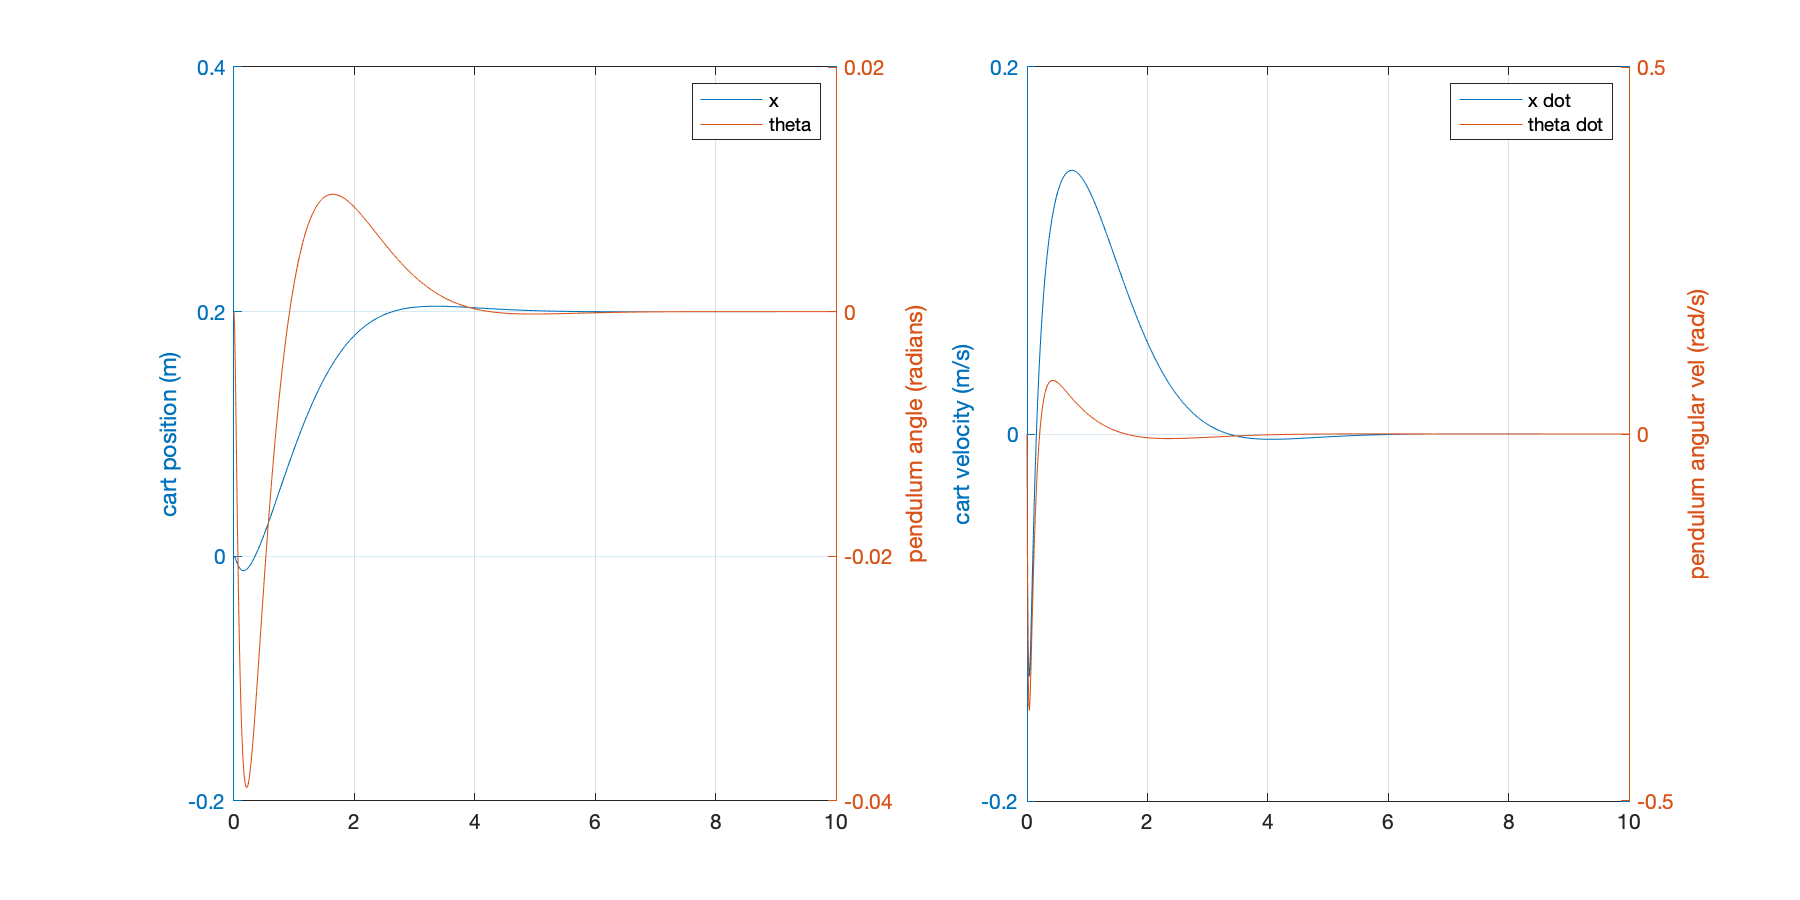
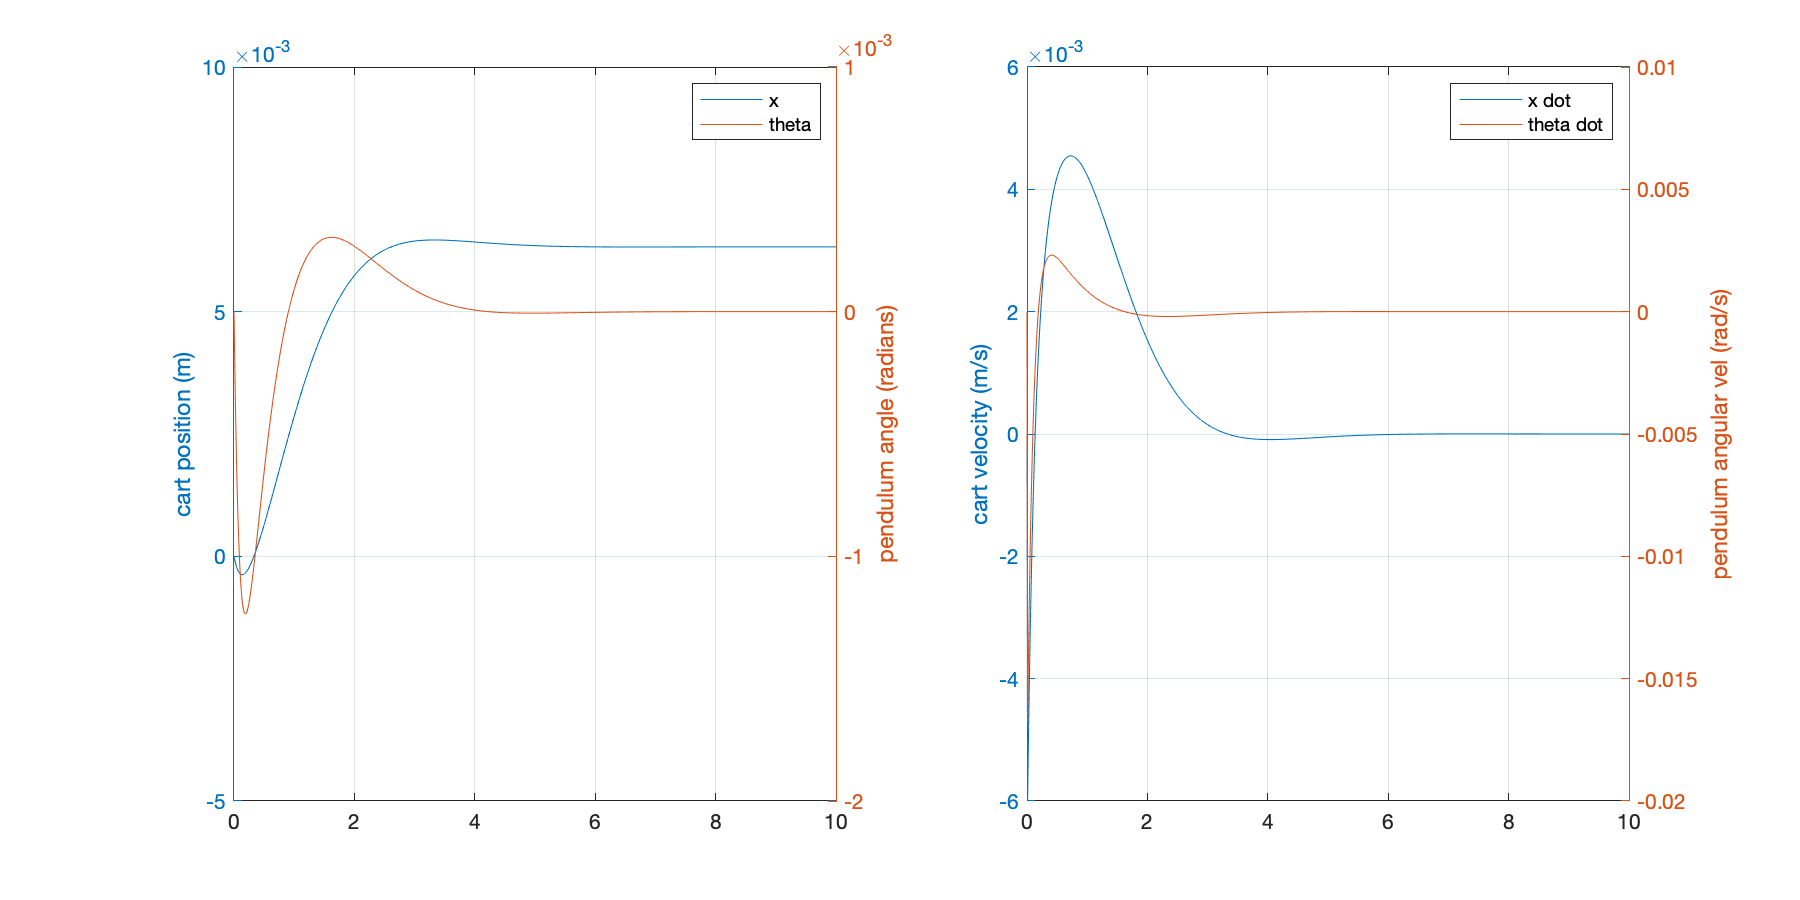
lqr ctrl, unstable

diff --git a/matlab/model.m b/matlab/model.m
@@ -7,7 +7,7 @@ global A B K L
 %% Constants
 M = .081;   %kg, cart mass
 m = 0.088;  %kg, total pend. mass
-b = 0.1;    %N/m/s, cart friction estimate
+b = 10;    %N/m/s, cart friction estimate
 g = 9.81;   %m/s^2
 l = 0.10;   %m, pend. length to CM.
 
@@ -57,11 +57,11 @@ observability = rank(ob); %rank of 4 = num states, thus observable.
 
 Q = C'*C;
 %Weights on error penalization for each state
-Q(1,1) = 100; %x
-Q(2,2) = 10; %x dot
-Q(3,3) = 1000; %theta
-Q(4,4) = 10; %theta dot
-R = 1;
+Q(1,1) = 10000; %x
+Q(2,2) = 1; %x dot
+Q(3,3) = 10000; %theta
+Q(4,4) = 0.1; %theta dot
+R = 0.1;
 
 [K,S,P_Sys] = lqr(A,B,Q,R);
 P_Sys
@@ -112,28 +112,28 @@ t = 0:0.01:10;
 r = -2*ones(size(t));
 
 
-f = figure('units','inch','position',[4,4,12,6]);
-subplot(1,2,1);
-[y,t,x]=lsim(sys_est_cl,r,t);
-[AX,H1,H2] = plotyy(t,y(:,1),t,y(:,2),'plot');
-set(get(AX(1),'Ylabel'),'String','cart position (m)')
-set(get(AX(2),'Ylabel'),'String','pendulum angle (radians)')
-%title('Step Response with Observer-Based State-Feedback Control')
-hold on
-grid on
-legend('x', 'theta');
-
-%plot dot states
-subplot(1,2,2)
-[AX2,H3,H4] = plotyy(t,x(:,2),t,x(:,4),'plot');
-set(get(AX2(1),'Ylabel'),'String','cart velocity (m/s)')
-set(get(AX2(2),'Ylabel'),'String','pendulum angular vel (rad/s)')
-%title('Step Response with Observer-Based State-Feedback Control')
-hold on
-grid on
-legend('x dot', 'theta dot');
-
-saveas(f,'models.png');
+% f = figure('units','inch','position',[4,4,12,6]);
+% subplot(1,2,1);
+% [y,t,x]=lsim(sys_est_cl,r,t);
+% [AX,H1,H2] = plotyy(t,y(:,1),t,y(:,2),'plot');
+% set(get(AX(1),'Ylabel'),'String','cart position (m)')
+% set(get(AX(2),'Ylabel'),'String','pendulum angle (radians)')
+% %title('Step Response with Observer-Based State-Feedback Control')
+% hold on
+% grid on
+% legend('x', 'theta');
+% 
+% %plot dot states
+% subplot(1,2,2)
+% [AX2,H3,H4] = plotyy(t,x(:,2),t,x(:,4),'plot');
+% set(get(AX2(1),'Ylabel'),'String','cart velocity (m/s)')
+% set(get(AX2(2),'Ylabel'),'String','pendulum angular vel (rad/s)')
+% %title('Step Response with Observer-Based State-Feedback Control')
+% hold on
+% grid on
+% legend('x dot', 'theta dot');
+% 
+% saveas(f,'models.png');
 
 
 %% Observer tuning
@@ -146,16 +146,16 @@ states = {'x' 'x_dot' 'phi' 'phi_dot'};
 inputs = {'r'};
 outputs = {'x hat'; 'phi hat'};
 
-sys_obsv = ss(Ao,Bo,Co,Do,'statename',states,'inputname',inputs,'outputname',outputs);
-f2 = figure('units','inch','position',[4,4,12,6]);
-[y,t,x]=lsim(sys_obsv,r,t);
-[AX3,H13,H23] = plotyy(t,y(:,1),t,y(:,2),'plot');
-set(get(AX3(1),'Ylabel'),'String','cart position (m)')
-set(get(AX3(2),'Ylabel'),'String','pendulum angle (radians)')
-%title('Step Response with Observer-Based State-Feedback Control')
-hold on
-grid on
-legend('x hat', 'theta hat');
+% sys_obsv = ss(Ao,Bo,Co,Do,'statename',states,'inputname',inputs,'outputname',outputs);
+% f2 = figure('units','inch','position',[4,4,12,6]);
+% [y,t,x]=lsim(sys_obsv,r,t);
+% [AX3,H13,H23] = plotyy(t,y(:,1),t,y(:,2),'plot');
+% set(get(AX3(1),'Ylabel'),'String','cart position (m)')
+% set(get(AX3(2),'Ylabel'),'String','pendulum angle (radians)')
+% %title('Step Response with Observer-Based State-Feedback Control')
+% hold on
+% grid on
+% legend('x hat', 'theta hat');
 
 %% Save matrices to .h file for tiva
 exportToC();

diff --git a/tiva/main.c b/tiva/main.c
@@ -61,6 +61,7 @@ long movinAvg(void);
 void send_u32(uint32_t n);
 void UARTSend(const uint8_t *pui8Buffer, uint32_t ui32Count);
 void obsv(void);
+void lqr(void);
 void startTimer(void);
 double stopTimer(void);
 
@@ -76,6 +77,8 @@ volatile signed int pos_target = 10000; //Cart position counter
 const float scaleTheta = (7.25*3.14159/4)/4096; //Convert Potentiometer to Radians (rads/counts)
 const float scalePos = 0.05/1170; //Convert x pos to m (m/ticks)
 volatile double dt = 0;
+volatile float posPrev = 0.0;
+volatile float thetaPrev = 0.0;
 
 const int moving_avg_size = 10;
 long thetas[moving_avg_size];
@@ -117,7 +120,10 @@ int main(void){
             measureInputs();
 
             //Update observer feedback
-            obsv();
+            //obsv();
+            //Just LQR ctrl
+            lqr();
+            dc = - HMM_DotVec4(K,xHat);
 
             //LQR Controller
             //xHat.X = pos*scalePos;
@@ -431,7 +437,9 @@ void UARTIntHandler(void)
     }
     send_u32(theta);
     send_u32(pos);
-    send_u32(dc);
+    //send_u32(dc);
+    //send_u32(xHat.X/scalePos);
+    //send_u32(xHat.Z/scaleTheta);
 
 }
 
@@ -466,7 +474,7 @@ void state_Init(void){
 
     ref.X = 0;
     ref.Y = 0;
-    ref.Z = 0; //gets set when SW1 pushed
+    ref.Z = 0; //theta gets set when SW1 pushed
     ref.W = 0;
 
 }
@@ -504,10 +512,25 @@ void obsv(void){
 
 }
 
+void lqr(void){
+    //xHat = pos posdot theta thetadot
+    //need to estimate the derivative states
+
+    dt = stopTimer();
+    xHat.X = (pos - ref.X)*scalePos;
+    xHat.Y = (xHat.X - posPrev)/dt;
+    xHat.Z = (theta - ref.Z)*scaleTheta;
+    xHat.W = (xHat.Z - thetaPrev)/dt;
+    posPrev = xHat.X;
+    thetaPrev = xHat.Z;
+    startTimer();
+
+
+}
 
 void Timer_Init(void) {
     SysCtlPeripheralEnable(SYSCTL_PERIPH_TIMER3);
-    SysCtlPeripheralReset(SYSCTL_PERIPH_TIMER3);    //
+    SysCtlPeripheralReset(SYSCTL_PERIPH_TIMER3);
     TimerConfigure(TIMER3_BASE, TIMER_CFG_ONE_SHOT_UP);
     TimerControlStall(TIMER3_BASE, TIMER_A, true) ;
 }
@@ -523,7 +546,7 @@ double stopTimer(void) {
     //IntDisable(INT_TIMER3A);
     //TimerIntDisable(TIMER3_BASE, TIMER_TIMA_TIMEOUT) ;
     //TimerDisable(TIMER3_BASE, TIMER_A) ;
-    uint32_t count = TimerValueGet(TIMER3_BASE, TIMER_A) ;
+    uint32_t count = TimerValueGet(TIMER3_BASE, TIMER_A);
     return ((double)count/(double)SysCtlClockGet());  // forcing  double just in case there's an issue w compiler
 }
 

diff --git a/matlab/obsv.h b/matlab/obsv.h
@@ -1,8 +1,8 @@
 //Gains for K, A-B*K, L from MATLAB
-float k[4] = {-10,-10.7925,46.0882,7.94368};
-float abk2[4] = {52.14475,55.60931,-239.0601,-41.42211};
-float abk4[4] = {146.6096,156.7628,-651.391,-116.462};
-float l1[2] = {430.0024,-162.9998};
-float l2[2] = {5372.1669,-2736.4126};
-float l3[2] = {-127.0637,177.8561};
-float l4[2] = {3473.1059,110.9461};
+float k[4] = {-316.2278,-33.06141,325.1577,16.41487};
+float abk2[4] = {1648.9617,105.59215,-1694.261,-85.594929};
+float abk4[4] = {4636.2032,338.10238,-4742.8187,-240.6578};
+float l1[2] = {615.3734,144.4732};
+float l2[2] = {-15998.1193,15226.1323};
+float l3[2] = {-980.3761,668.4774};
+float l4[2] = {-42775.1323,39465.8049};

diff --git a/tiva/obsv.h b/tiva/obsv.h
@@ -1,8 +1,8 @@
 //Gains for K, A-B*K, L from MATLAB
-float k[4] = {-10,-10.7925,46.0882,7.94368};
-float abk2[4] = {52.14475,55.60931,-239.0601,-41.42211};
-float abk4[4] = {146.6096,156.7628,-651.391,-116.462};
-float l1[2] = {430.0024,-162.9998};
-float l2[2] = {5372.1669,-2736.4126};
-float l3[2] = {-127.0637,177.8561};
-float l4[2] = {3473.1059,110.9461};
+float k[4] = {-316.2278,-33.06141,325.1577,16.41487};
+float abk2[4] = {1648.9617,105.59215,-1694.261,-85.594929};
+float abk4[4] = {4636.2032,338.10238,-4742.8187,-240.6578};
+float l1[2] = {615.3734,144.4732};
+float l2[2] = {-15998.1193,15226.1323};
+float l3[2] = {-980.3761,668.4774};
+float l4[2] = {-42775.1323,39465.8049};

diff --git a/matlab/poll_tiva.m b/matlab/poll_tiva.m
@@ -33,7 +33,7 @@ readasync(s);
 % thetaVal = theta(3) + theta(4)*16^2
 
 %% Figure
-Tmax = 30; % Total time for data collection (s)
+Tmax = 10; % Total time for data collection (s)
 f = figure('Color',[0 0 0],'InvertHardcopy','off', 'units','normalized','outerposition',[0 0 1 1]);
 
 axes1 = axes('Parent',f,...
@@ -71,7 +71,7 @@ while toc <= Tmax
         
     end
     pos(i)=pos(i);
-    theta(i)=-theta(i)-2000;
+    theta(i)=-theta(i);
     
 %     if(data(14) == 255)
 %         dc(i) = -(255-data(11)) - (255-data(12))*16^2 -(255-data(13))*16^4;
